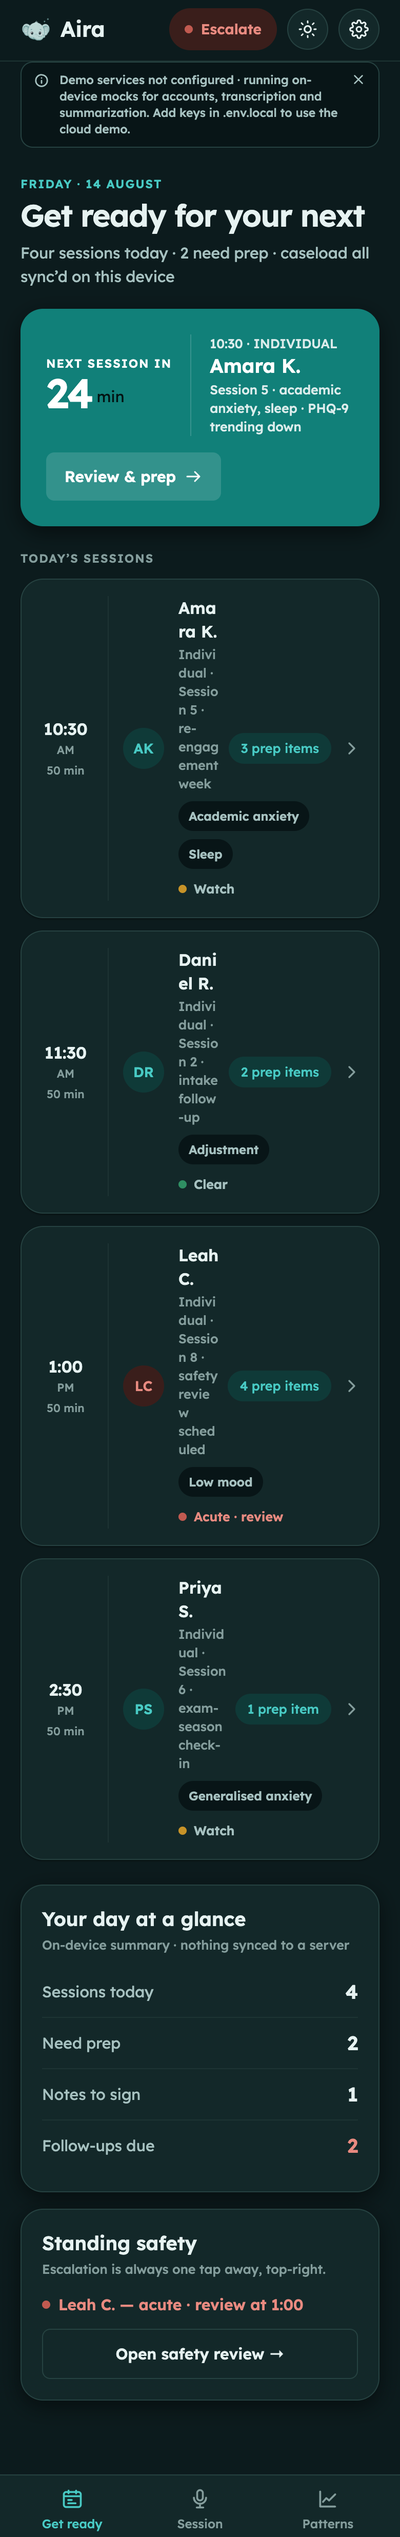
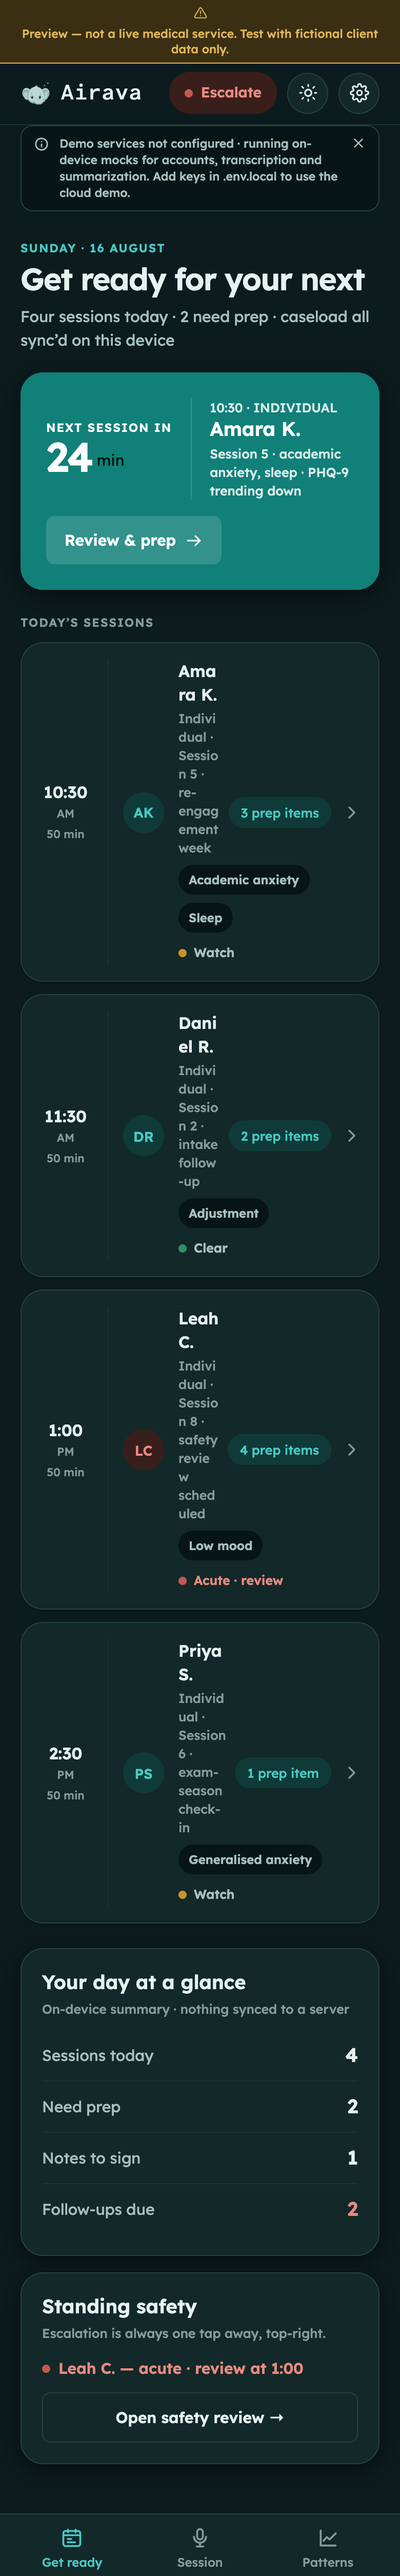
docs: refresh mobile screenshots for the Airava brand and today's UI
Every capture in docs/screenshots/mobile/ now shows the shipped Airava
wordmark, the current seafoam palette, the date-proportional PHQ-9 chart
axis, the post-copy-sweep trust strings, and the standing WIP preview
banner. Also adds three new pairs (09-escalate, 10-duplicate-patient,
11-id-mismatch) capturing UI that changed or landed today: the Escalate
sheet's inline dial/browse/mail targets, and the duplicate-identity
recognition/caution states reached through the app's real capture flow
with synthetic Emirates IDs. The r4r5-/r2r3- sets are left as-is —
they're already labeled historical in this README and aren't referenced
as current anywhere.

diff --git a/docs/screenshots/README.md b/docs/screenshots/README.md
@@ -1,16 +1,14 @@
 # Airava — rendered workflow captures
 
-> **Every capture in this folder predates the Airava brand rename.** The README hero strip,
-> `mobile/*`, and the `r4r5-`/`r2r3-` sets all still show the old **"Aira"** wordmark set in Lexend;
-> the shipped app now shows **"Airava"** in Atkinson Hyperlegible Mono. Judge layout and colour from
-> them as usual, but not the brand mark. A full refresh is queued as a separate task.
->
-> They also predate three later changes. The **encryption/server copy sweep**: the shipped app no
-> longer says "encrypted on this device" or "keys never leave this device" anywhere — read the live
-> copy from `src/strings/recovery.ts`, not from these images. The **date-proportional chart x-axis**,
-> so `06-patterns` still spaces its readings at equal intervals. And the **standing WIP preview
-> banner** (invite-only beta): the shipped app now tops every screen with a slim caution strip these
-> captures don't show.
+> **Refreshed 2026-08-16.** The `mobile/` set now shows the **Airava** wordmark (Atkinson
+> Hyperlegible Mono), the tuned seafoam palette, the date-proportional chart x-axis, the
+> post-copy-sweep trust strings (no more "encrypted on this device" language — read
+> `src/strings/recovery.ts` for the live wording), and the standing WIP preview banner ("Preview —
+> not a live medical service. Test with fictional client data only.") that now tops every screen —
+> the banner is kept in-frame deliberately, not cropped out, per the captain's 2026-08-16 decision.
+> The `r4r5-`/`r2r3-` sets below are **not** refreshed — they still show the pre-rename **"Aira"**
+> wordmark and are kept only as historical record of earlier design rounds; do not use them to judge
+> current UI.
 
 Real renders of the running **web** app (headless Chrome, 2× scale). The `mobile/` folder is the
 **current** set (phone-dimension signature screens, light + dark); the `r4r5-` prefix below it is the
@@ -19,7 +17,11 @@ the superseded round-2/3 refresh, kept as history.
 
 Regenerate after UI changes: `npx expo export --platform web && npx expo serve`, then drive the
 flows by **client-side navigation** — never load dynamic `[clientId]` routes directly against the
-static server. Dark shots emulate `prefers-color-scheme: dark`, which the theme follows.
+static server. Dark shots emulate `prefers-color-scheme: dark`, which the theme follows. A capture
+whose content scrolls internally (RN Web renders most screens as a fixed-height `ScrollView`, not a
+scrolling document) needs the browser viewport resized tall enough to fit the full content before
+the screenshot — see the capture note in the PR description for the exact technique; a plain
+`--full-page` screenshot only captures the document body, which stays pinned to the viewport height.
 
 ## Current signature set: mobile (`mobile/`)
 
@@ -31,14 +33,28 @@ directly — the in-memory vault would re-lock). The build is the on-device **mo
 `.env.local`), so nothing leaves the machine and login accepts the demo password.
 
 - `01-onboarding` · welcome intro: mascot hero, personal-scribe copy, endowed progress bar
-- `02-login` · unlock: vault-locked copy + both trust notes (pre-sweep wording — the shipped line is now
-  "Stored on this device · unlocked with your login"; the HIPAA-aligned note likewise no longer says "encrypted")
+- `02-login` · unlock: vault-locked copy + both trust notes, post-copy-sweep wording —
+  "Stored on this device · unlocked with your login"; the HIPAA-aligned note likewise no longer says "encrypted"
 - `03-day-dashboard` · Get ready: countdown, today's session cards, day-at-a-glance, standing safety
 - `04-client-drawer` · client details: latest scores, patient-details + SALAMA/EHR card, history timeline
 - `05-caseload` · caseload: per-row Outreach quick-actions (two pre-greyed), sparklines, sober risk chips
 - `06-patterns` · Amara's longitudinal PHQ-9 chart, multi-scale tabs, sparse ≤2-reading dot-strip, journal box
 - `07-soap-note` · session note with the **SOAP/DAP** format switcher, risk section, prescriptions, sign-off
 - `08-recording` · in-session capture: live timer + waveform, timestamp-synced comment-card strip
+  (real mic access, captured with Chrome's fake-device flags so the state is genuinely "Recording",
+  not the no-mic fallback)
+- `09-escalate` · the standing Escalate sheet, refreshed for the 2026-08-16 change: every contact row
+  now shows its real dial/browse/mail target inline (e.g. "800 4673"), grouped into the crisis line,
+  the "if this is an emergency" tier (police, Rashid Hospital, Dubai Health Authority), and "crisis
+  but not urgent" (The LightHouse Arabia Centre for Wellbeing), plus the clinician-tools row
+  (warm handoff, safety plan)
+- `10-duplicate-patient` · the "You already see this client" caution on session review — reached
+  honestly by signing off two session captures under the same synthetic Emirates ID (`Fatima Test`,
+  a fictional 784-format ID), which folds the second into the first's record instead of creating a
+  duplicate
+- `11-id-mismatch` · the "Check the Emirates ID" caution — the same synthetic ID captured a second
+  time under a different typed name (`Omar Mistake`), which the app refuses to fold and instead
+  mints a separate record with an explanation
 
 ## Prior set: rounds 4 + 5 (`r4r5-`)
 
